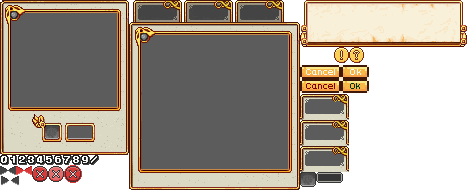
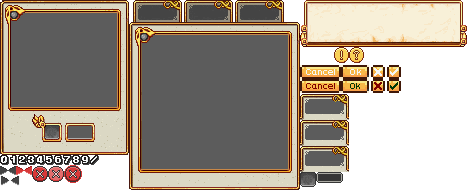
Interface Progress

Changed region(s): [[0.7794, 0.3421, 0.8694, 0.5]]

diff --git a/client/css/interface.css b/client/css/interface.css
@@ -17,10 +17,11 @@
     float: left;
 }
 
-#notify {
+#notify, #confirm {
     position: absolute;
     left: 35%;
     top: 45%;
+    display: none;
 }
 
 #exclamation, #question {
@@ -28,7 +29,7 @@
     top: 30%;
 }
 
-#ok {
+#ok, #done {
     position: absolute;
     left: 85%;
     top: 70%;
@@ -189,7 +190,7 @@
         background: url('../img/2/skillslots.png') no-repeat;
     }
 
-    #notify {
+    #notify, #confirm {
         width: 333px;
         height: 94px;
         background: url('../img/2/containers.png') -601px 0;
@@ -199,7 +200,7 @@
         position: relative;
         width: 30px;
         height: 32px;
-        display: none;
+        display: block;
     }
 
     #question {
@@ -210,13 +211,13 @@
         background: url('../img/2/containers.png') -669px -94px;
     }
 
-    #ok {
+    #ok, #done {
         width: 27px;
         height: 14px;
         background: url('../img/2/containers.png') -642px -108px;
     }
 
-    #ok:hover {
+    #ok, #done:hover {
         background: url('../img/2/containers.png') -642px -94px;
     }
 
@@ -305,7 +306,7 @@
         background: url('../img/1/skillslots.png');
     }
 
-    #notify {
+    #notify, #confirm {
         width: 166px;
         height: 47px;
         background: url('../img/1/containers.png') -300px 0;
@@ -315,7 +316,7 @@
         position: relative;
         width: 15px;
         height: 16px;
-        display: none;
+        display: block;
     }
 
     #question {
@@ -326,27 +327,27 @@
         background: url('../img/1/containers.png') -334px -47px;
     }
 
-    #ok {
-        left: 65%;
-        top: 50%;
-        width: 28px;
+    #ok, #done {
+        left: 85%;
+        top: 55%;
+        width: 14px;
         height: 14px;
-        background: url('../img/1/containers.png') -341px -79px;
+        background: url('../img/1/containers.png') -387px -79px;
     }
 
-    #ok:hover {
-        background: url('../img/1/containers.png') -341px -65px;
+    #ok, #done:hover {
+        background: url('../img/1/containers.png') -387px -65px;
     }
 
     #cancel {
-        left: 50%;
-        top: 50%;
-        width: 40px;
+        left: 75%;
+        top: 55%;
+        width: 14px;
         height: 14px;
-        background: url('../img/1/containers.png') -300px -79px;
+        background: url('../img/1/containers.png') -371px -79px;
     }
 
     #cancel:hover {
-        background: url('../img/1/containers.png') -300px -65px;
+        background: url('../img/1/containers.png') -371px -65px;
     }
 }

diff --git a/client/js/controllers/interface.js b/client/js/controllers/interface.js
@@ -1,6 +1,6 @@
 /* global log */
 
-define(function() {
+define(['jquery'], function($) {
 
     return Class.extend({
 
@@ -9,12 +9,79 @@ define(function() {
 
             self.game = game;
 
+            self.notify = $('#notify');
+            self.confirm = $('#confirm');
+
+            self.loadNotifications();
         },
 
-        handle: function(event) {
+        loadNotifications: function() {
+            var self = this,
+                ok = $('#ok'),
+                cancel = $('#cancel'),
+                done = $('#done');
+
+            /**
+             * Simple warning dialogue
+             */
+
+            ok.click(function(event) {
+                log.info(self.notify.className);
+
+                self.hideNotify();
+            });
+
+            /**
+             * Callbacks responsible for
+             * Confirmation dialogues
+             */
+
+            cancel.click(function(event) {
+                log.info(self.confirm.className);
+
+                self.hideConfirm();
+            });
+
+            done.click(function(event) {
+                log.info(self.confirm.className);
+
+                self.hideConfirm();
+            });
+        },
+
+        displayNotify: function(message) {
             var self = this;
 
-            log.info(event);
+            if (self.isNotifyVisible())
+                return;
+
+            self.notify.css('display', 'block');
+
+        },
+
+        displayConfirm: function(message) {
+            var self = this;
+
+            if (self.isConfirmVisible())
+                return;
+
+            self.confirm.css('display', 'block');
+        },
+
+        hideNotify: function() {
+            this.notify.css('display', 'none');
+        },
+
+        hideConfirm: function() {
+            this.confirm.css('display', 'none');
+        },
+
+        isNotifyVisible: function() {
+            return this.notify.css('display') === 'block';
+        },
+
+        isConfirmVisible: function() {
+            return this.confirm.css('display') === 'block';
         }
 
     });

diff --git a/client/js/game.js b/client/js/game.js
@@ -134,15 +134,15 @@ define(['./renderer/renderer', './utils/storage',
             self.setMessages(self.socket.messages);
             self.setInput(new Input(self));
 
-            self.app.sendStatus('Loading other mumbo jumbo');
+            self.app.sendStatus('Loading interfaces');
+
+            self.setInterface(new Interface(self));
 
             self.setEntityController(new Entities(self));
 
             self.setInfo(new Info(self));
 
             self.setBubble(new Bubble(self));
-
-            self.setInterface(new Interface(self));
 
             if (!hasWorker)
                 self.loaded = true;
@@ -495,6 +495,8 @@ define(['./renderer/renderer', './utils/storage',
 
             self.messages.onInventory(function(opcode, info) {
 
+                return;
+
                 switch (opcode) {
                     case Packets.InventoryOpcode.Batch:
 
@@ -519,8 +521,19 @@ define(['./renderer/renderer', './utils/storage',
 
             self.messages.onNotification(function(opcode, message) {
 
-                log.info(opcode);
-                log.info(message);
+                switch (opcode) {
+                    case Packets.NotificationOpcode.Ok:
+
+                        self.interface.displayNotify(message);
+
+                        break;
+
+                    case Packets.NotificationOpcode.YesNo:
+
+                        self.interface.displayConfirm(message);
+
+                        break;
+                }
 
             });
         },

diff --git a/server/js/controllers/commands.js b/server/js/controllers/commands.js
@@ -1,4 +1,8 @@
-var cls = require('../lib/class');
+/* global log */
+
+var cls = require('../lib/class'),
+    Messages = require('../network/messages'),
+    Packets = require('../network/packets');
 
 module.exports = Commands = cls.Class.extend({
 
@@ -27,8 +31,12 @@ module.exports = Commands = cls.Class.extend({
     handlePlayerCommands: function(blocks) {
         var self = this;
 
-        switch(blocks) {
-            case 'togglecamera':
+        switch(blocks.shift()) {
+            case 'notify':
+
+                var type = parseInt(blocks.shift());
+
+                self.player.send(new Messages.Notification(type ? type : 0, 'Testing Text'));
 
                 break;
         }
@@ -36,9 +44,17 @@ module.exports = Commands = cls.Class.extend({
 
     handleModeratorCommands: function(blocks) {
 
+        switch (blocks.shift()) {
+
+        }
+
     },
 
     handleAdminCommands: function(blocks) {
+
+        switch (blocks.shift()) {
+
+        }
 
     }
 

diff --git a/client/index.html b/client/index.html
@@ -161,7 +161,20 @@
             </div>
             <div id="bubbles"></div>
             <div id="abilityShortcut"></div>
-            <div id="notify"></div>
+            <div id="notifications">
+                <div id="notify">
+                    <div id="exclamation"></div>
+                    e
+                    <div id="ok"></div>
+                </div>
+
+                <div id="confirm">
+                    <div id="question"></div>
+
+                    <div id="done"></div>
+                    <div id="cancel"></div>
+                </div>
+            </div>
             <div id="chat">
                 <div id="talk">
                     <form method="get" accept-charset="utf-8">

diff --git a/server/js/game/world.js b/server/js/game/world.js
@@ -464,8 +464,6 @@ module.exports = World = cls.Class.extend({
 
         entities = _.keys(self.groups[player.group].entities);
 
-        log.info(entities.length);
-
         entities = _.reject(entities, function(instance) {
             return instance === player.instance;
         });

diff --git a/client/js/interface/inventory.js b/client/js/interface/inventory.js
@@ -1,0 +1,14 @@
+define(['jquery'], function($) {
+
+    return Class.extend({
+
+        init: function(game) {
+            var self = this;
+
+            self.game = game;
+            self.body = $('#inventory');
+        }
+
+    });
+
+});
